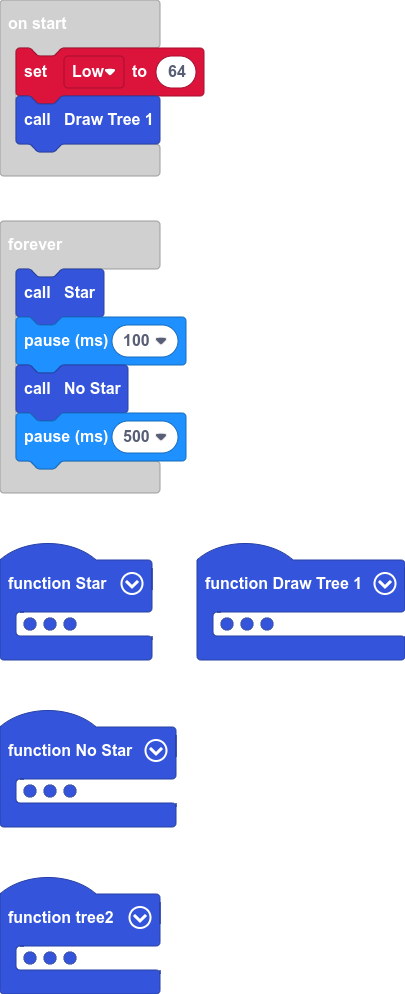
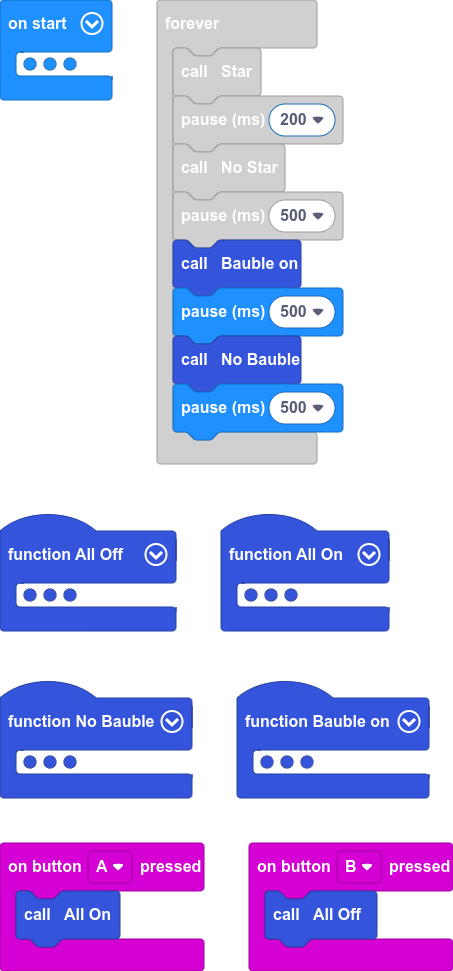
Add all on / off plusy key press

diff --git a/main.ts b/main.ts
@@ -1,3 +1,9 @@
+function No_Bauble () {
+    led.plotBrightness(1, 2, Low)
+    led.plotBrightness(3, 2, Low)
+    led.plotBrightness(0, 3, Low)
+    led.plotBrightness(4, 3, Low)
+}
 function tree2 () {
     led.plotBrightness(2, 0, Low)
     led.plotBrightness(1, 1, Low)
@@ -15,8 +21,29 @@ function tree2 () {
     led.plotBrightness(3, 3, Low)
     led.plotBrightness(2, 4, Low)
 }
+input.onButtonPressed(Button.A, function () {
+    All_On()
+})
 function Star () {
     led.plotBrightness(2, 0, 255)
+}
+function All_On () {
+    Star()
+    Bauble_on()
+}
+function All_Off () {
+    No_Bauble()
+    basic.pause(100)
+    No_Star()
+}
+input.onButtonPressed(Button.B, function () {
+    All_Off()
+})
+function Bauble_on () {
+    led.plotBrightness(1, 2, 255)
+    led.plotBrightness(3, 2, 255)
+    led.plotBrightness(0, 3, 255)
+    led.plotBrightness(4, 3, 255)
 }
 function Draw_Tree_1 () {
     led.plotBrightness(2, 0, 0)
@@ -39,7 +66,11 @@ Low = 64
 Draw_Tree_1()
 basic.forever(function () {
     Star()
-    basic.pause(100)
+    basic.pause(200)
     No_Star()
+    basic.pause(500)
+    Bauble_on()
+    basic.pause(500)
+    No_Bauble()
     basic.pause(500)
 })
